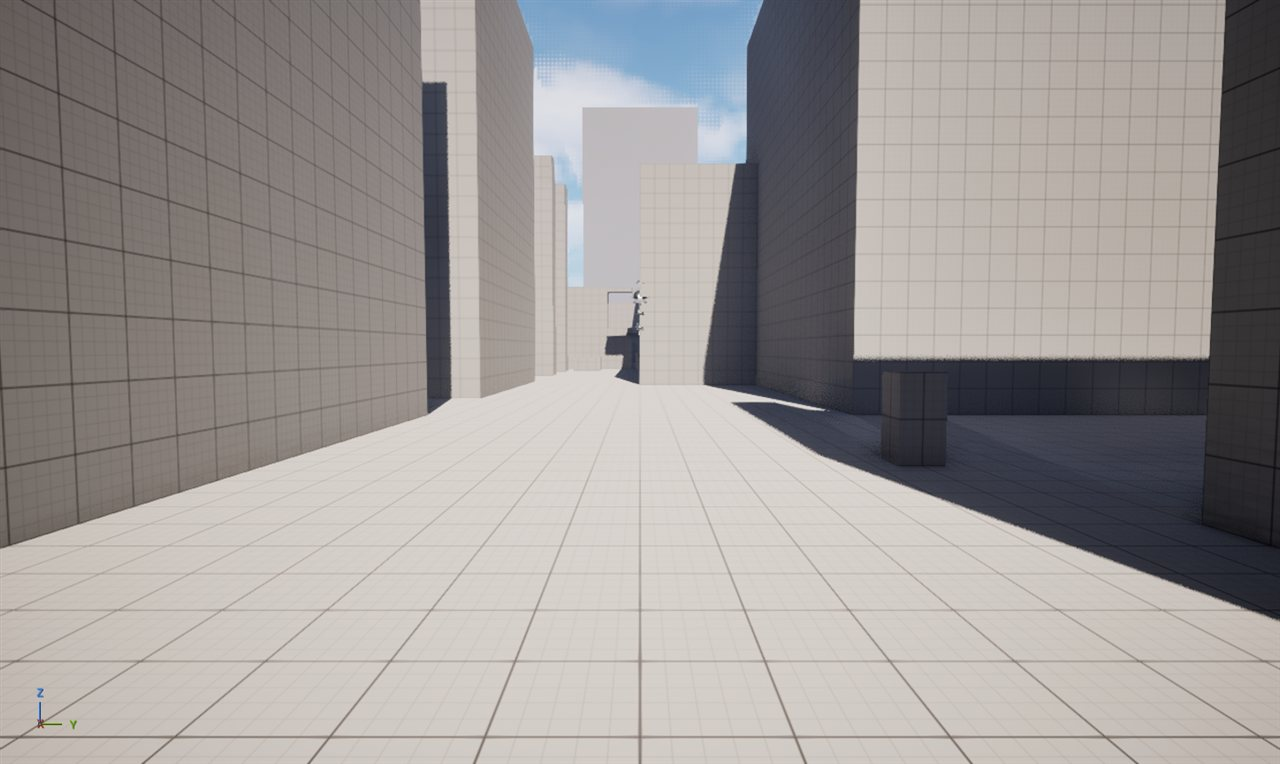
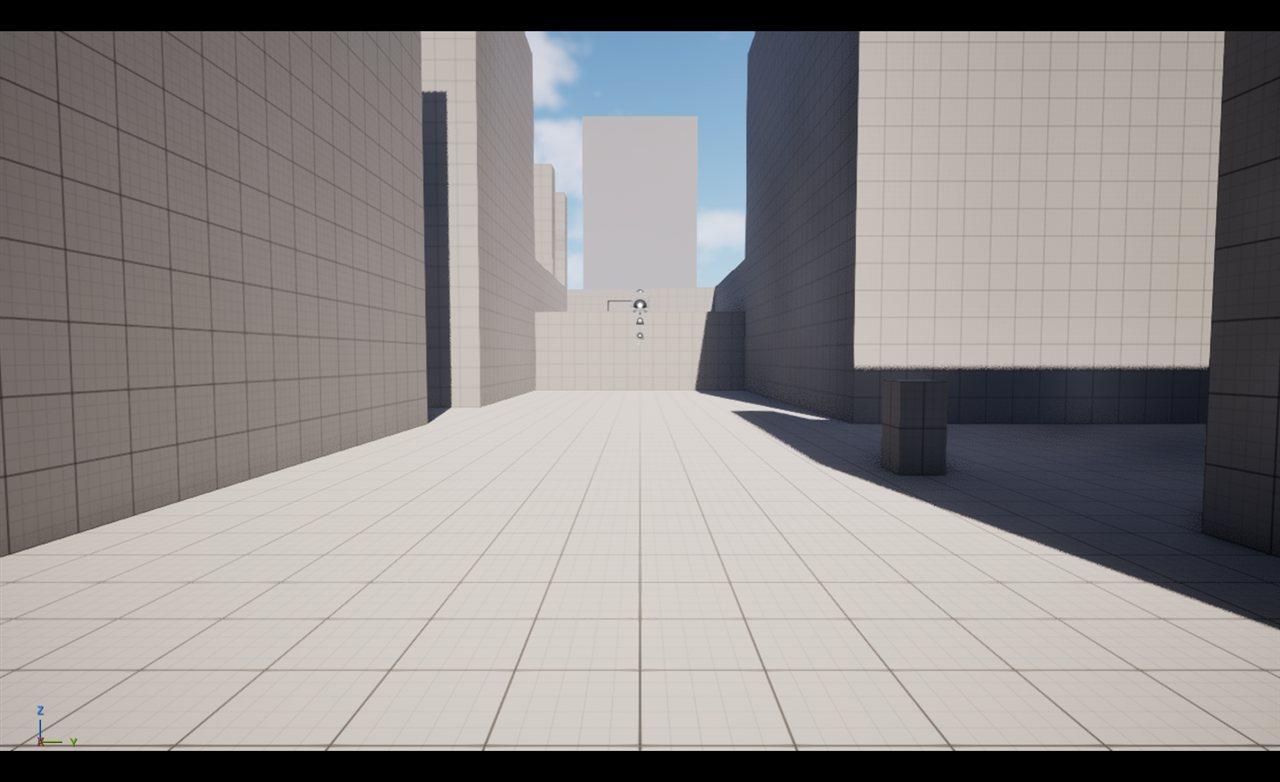
fix: restore boundary, shutter and plaza wall positions lost during rescale
지적받은 대로 BLK_Boundary_E를 포함한 벽 10개가 맵 중앙(0,0,0)에 몰려 있었다.

원인은 직전 커밋(e17ebe1)에서 벽 높이를 낮출 때 set_actor_transform에 scale만
넘긴 것이다. 스키마 설명은 "설정하지 않은 필드는 변경하지 않는다"지만 실제로는
생략한 필드가 기본값으로 리셋되어 위치가 원점으로 날아갔다.

영향받은 액터 10개:
BLK_Boundary_N/S/E/W, BLK_Shutter_Closed, BLK_SH_Wall_N/S, BLK_E_Wall_N/S/W

location/rotation/scale을 모두 명시해 원래 위치로 복구하고, get_actor_bounds로
10개 전부 검증했다. 높이 변경(경계 15m, 셔터 6m, 광장/셔터 구간 10m)은 유지된다.

복구 후 시야축을 다시 계산했다. 진입부에서 셔터 2.6도, 경계 파사드 4.9도로
랜드마크 18.4도보다 낮아 원경 가시성 설계는 그대로 성립한다.
영향받은 스크린샷 5장(탑다운, 대로, 셔터, 광장, 2F 창)을 다시 촬영해 교체했다.

level_workflow.md에 이 함정을 기록했다. 기존 액터를 수정할 때는 바꾸지 않을 값도
get_actor_transform으로 읽어 함께 넘기고, 수정 후 get_actor_bounds로 위치까지
검증한다. 높이만 확인하면 놓친다.

diff --git a/docs/level_workflow.md b/docs/level_workflow.md
@@ -97,7 +97,7 @@ Perf/              측정용 카메라
 | 요소 | 내용 |
 |---|---|
 | `BLK_Ground_PlayArea` | 150m × 150m 지면. 윗면이 `Z = 0` |
-| `BLK_Boundary_N/S/E/W` | ±7500cm 경계 파사드 벽 (높이 30m). Ring 0.5의 위치 기준선 |
+| `BLK_Boundary_N/S/E/W` | ±7550cm 경계 파사드 벽 (높이 15m). Ring 0.5의 위치 기준선 |
 | `REF_Gauge_*` | 엄폐 100cm / 150cm, 문 폭 200cm 스케일 기준물 |
 | `DIST_R1_00 ~ 11` | Ring 1 스텁 블록 12개 (반경 450 ~ 670m, 높이 80 ~ 200m) |
 | `DIST_R2_00 ~ 07` | Ring 2 스텁 블록 8개 (반경 1.5 ~ 2.6km, 높이 250 ~ 500m) |
@@ -274,3 +274,15 @@ scale    = (width/100, depth/100, height/100)
 
 배치 후에는 `get_actor_bounds`로 한 번 검증한다. 특히 원경 블록이 지면에서 떠 있으면
 실루엣과 안개가 어긋나므로 `min.z == 0` 을 확인한다.
+
+### `set_actor_transform`은 생략한 필드를 초기화한다
+
+스키마 설명은 "설정하지 않은 필드는 변경하지 않는다"로 되어 있지만, 실제로는 **생략한 필드가
+기본값으로 리셋된다.** 스케일만 바꾸려고 `xform`에 `scale`만 넘기면 위치가 `(0, 0, 0)`으로 날아간다.
+
+실제로 벽 높이를 조정하면서 이 방식으로 10개 액터를 옮겨버렸고, 경계 파사드와 셔터, 광장 벽이
+모두 맵 중앙에 겹쳐 쌓였다. 스크린샷에서는 다른 벽에 가려 바로 드러나지 않았다.
+
+**기존 액터를 수정할 때는 `location` / `rotation` / `scale`을 항상 함께 넘긴다.**
+바꾸지 않을 값은 `get_actor_transform`으로 읽어서 그대로 다시 넣는다.
+수정 후에는 `get_actor_bounds`로 위치까지 검증한다. 높이만 확인하고 넘어가면 놓친다.
